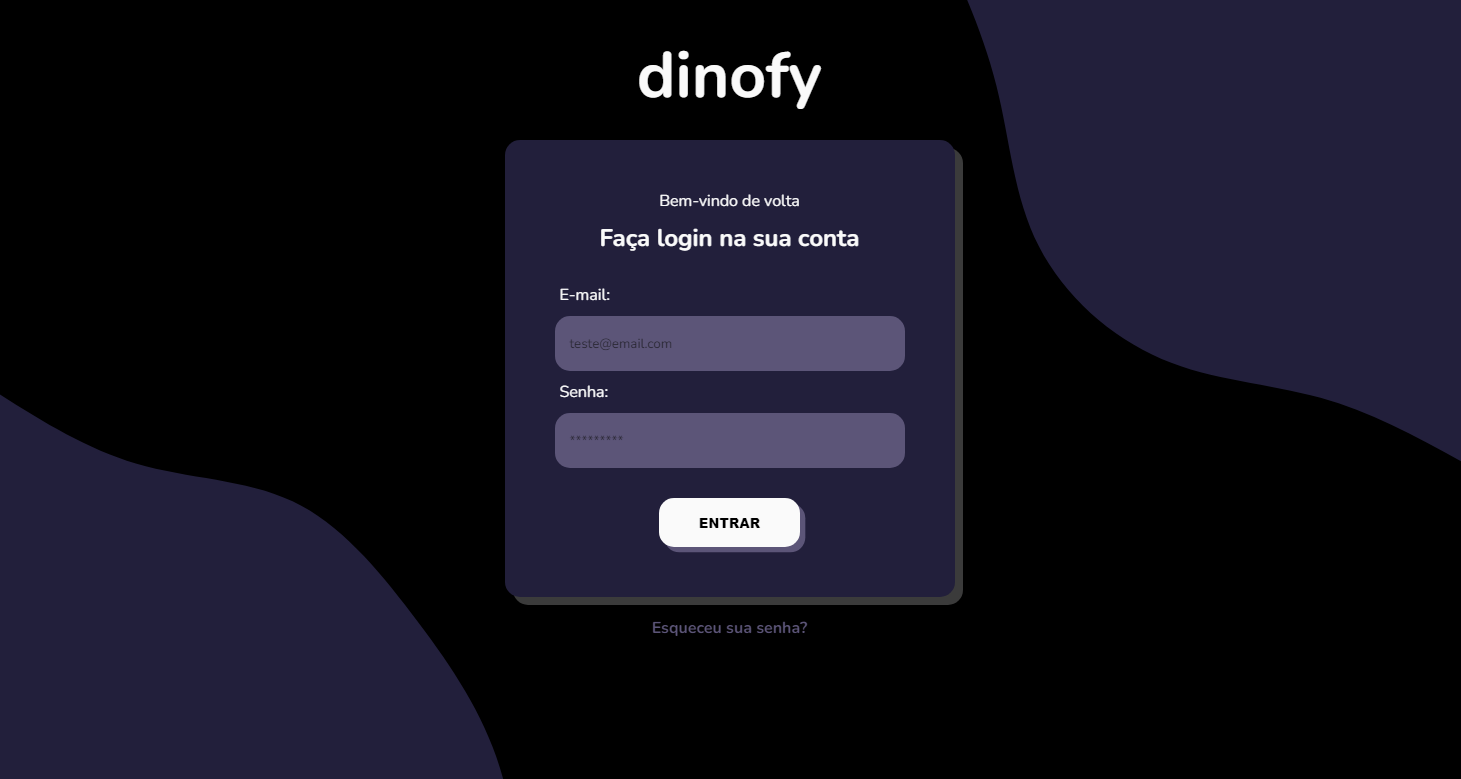
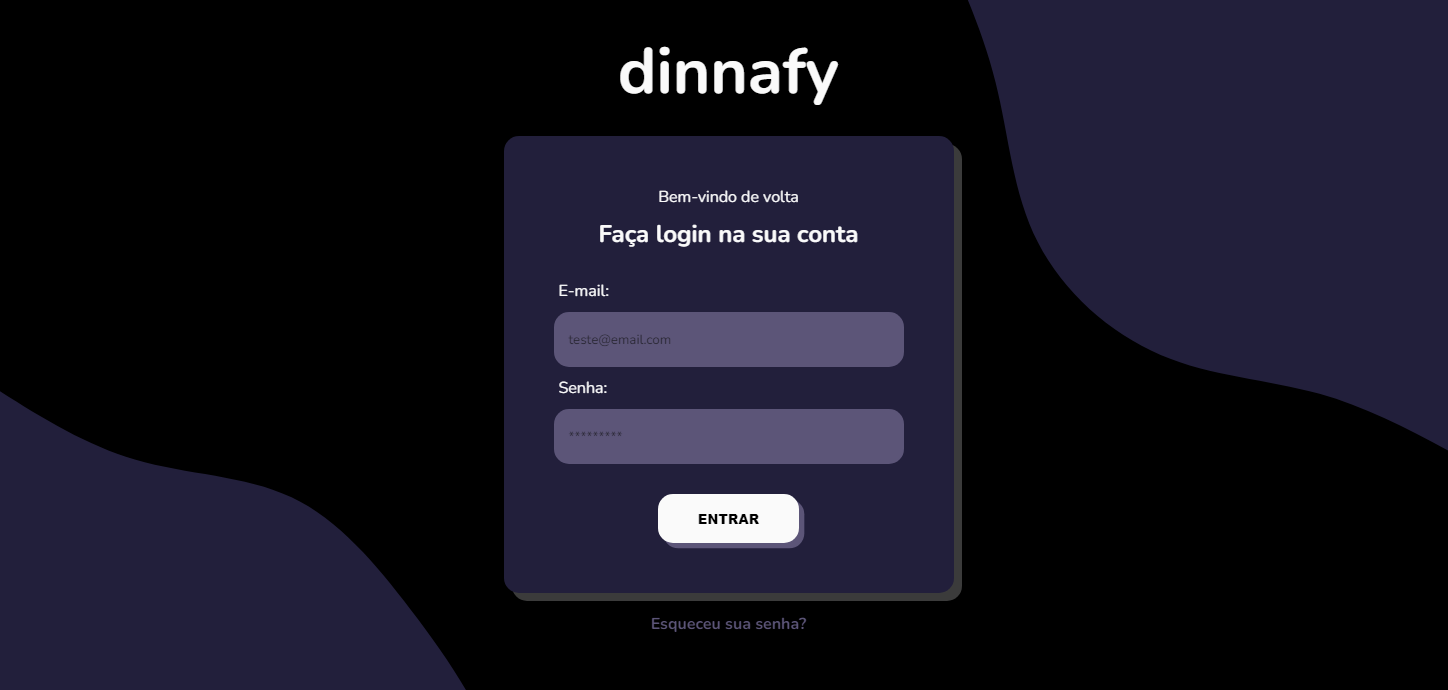
ajuste nome

diff --git a/index.html b/index.html
@@ -115,7 +115,7 @@
 			<div class="projetos-box">
 				<img src="/img/dinofy.png" alt="">
 				<div class="projetos-conteudo">
-					<h3>Dinofy</h3>
+					<h3>Dinnafy</h3>
 					<p>Página de login de uma empresa fictícia<br>Desenvolvido com HTML e CSS</p>
 					<div class="proj-icons">
 						<a href="https://github.com/giovanaraphaelli/dinnafy-login" target="_blank">
